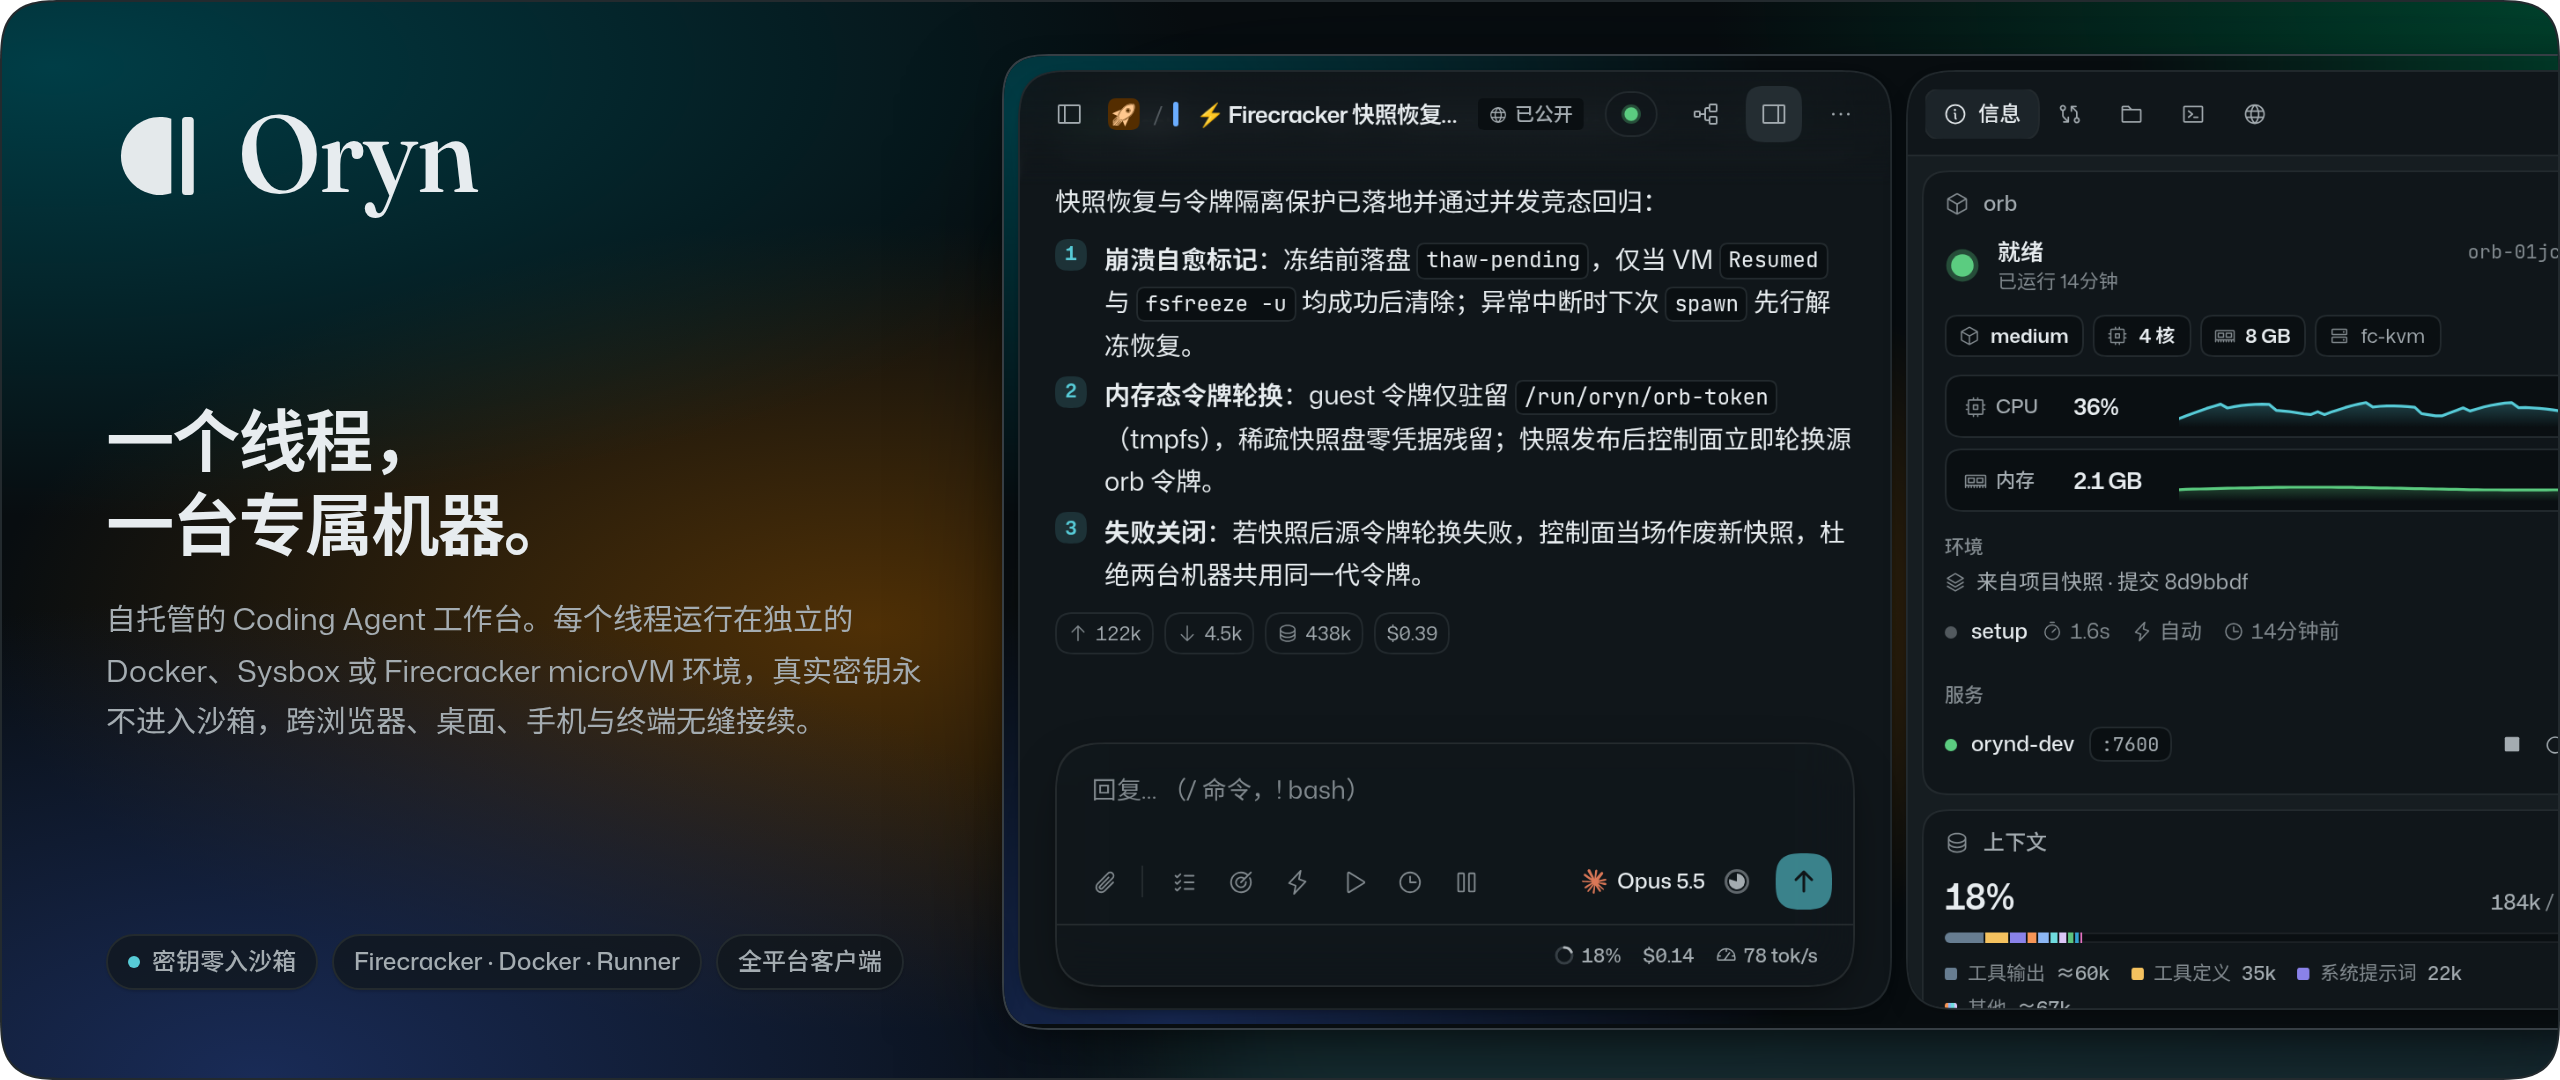
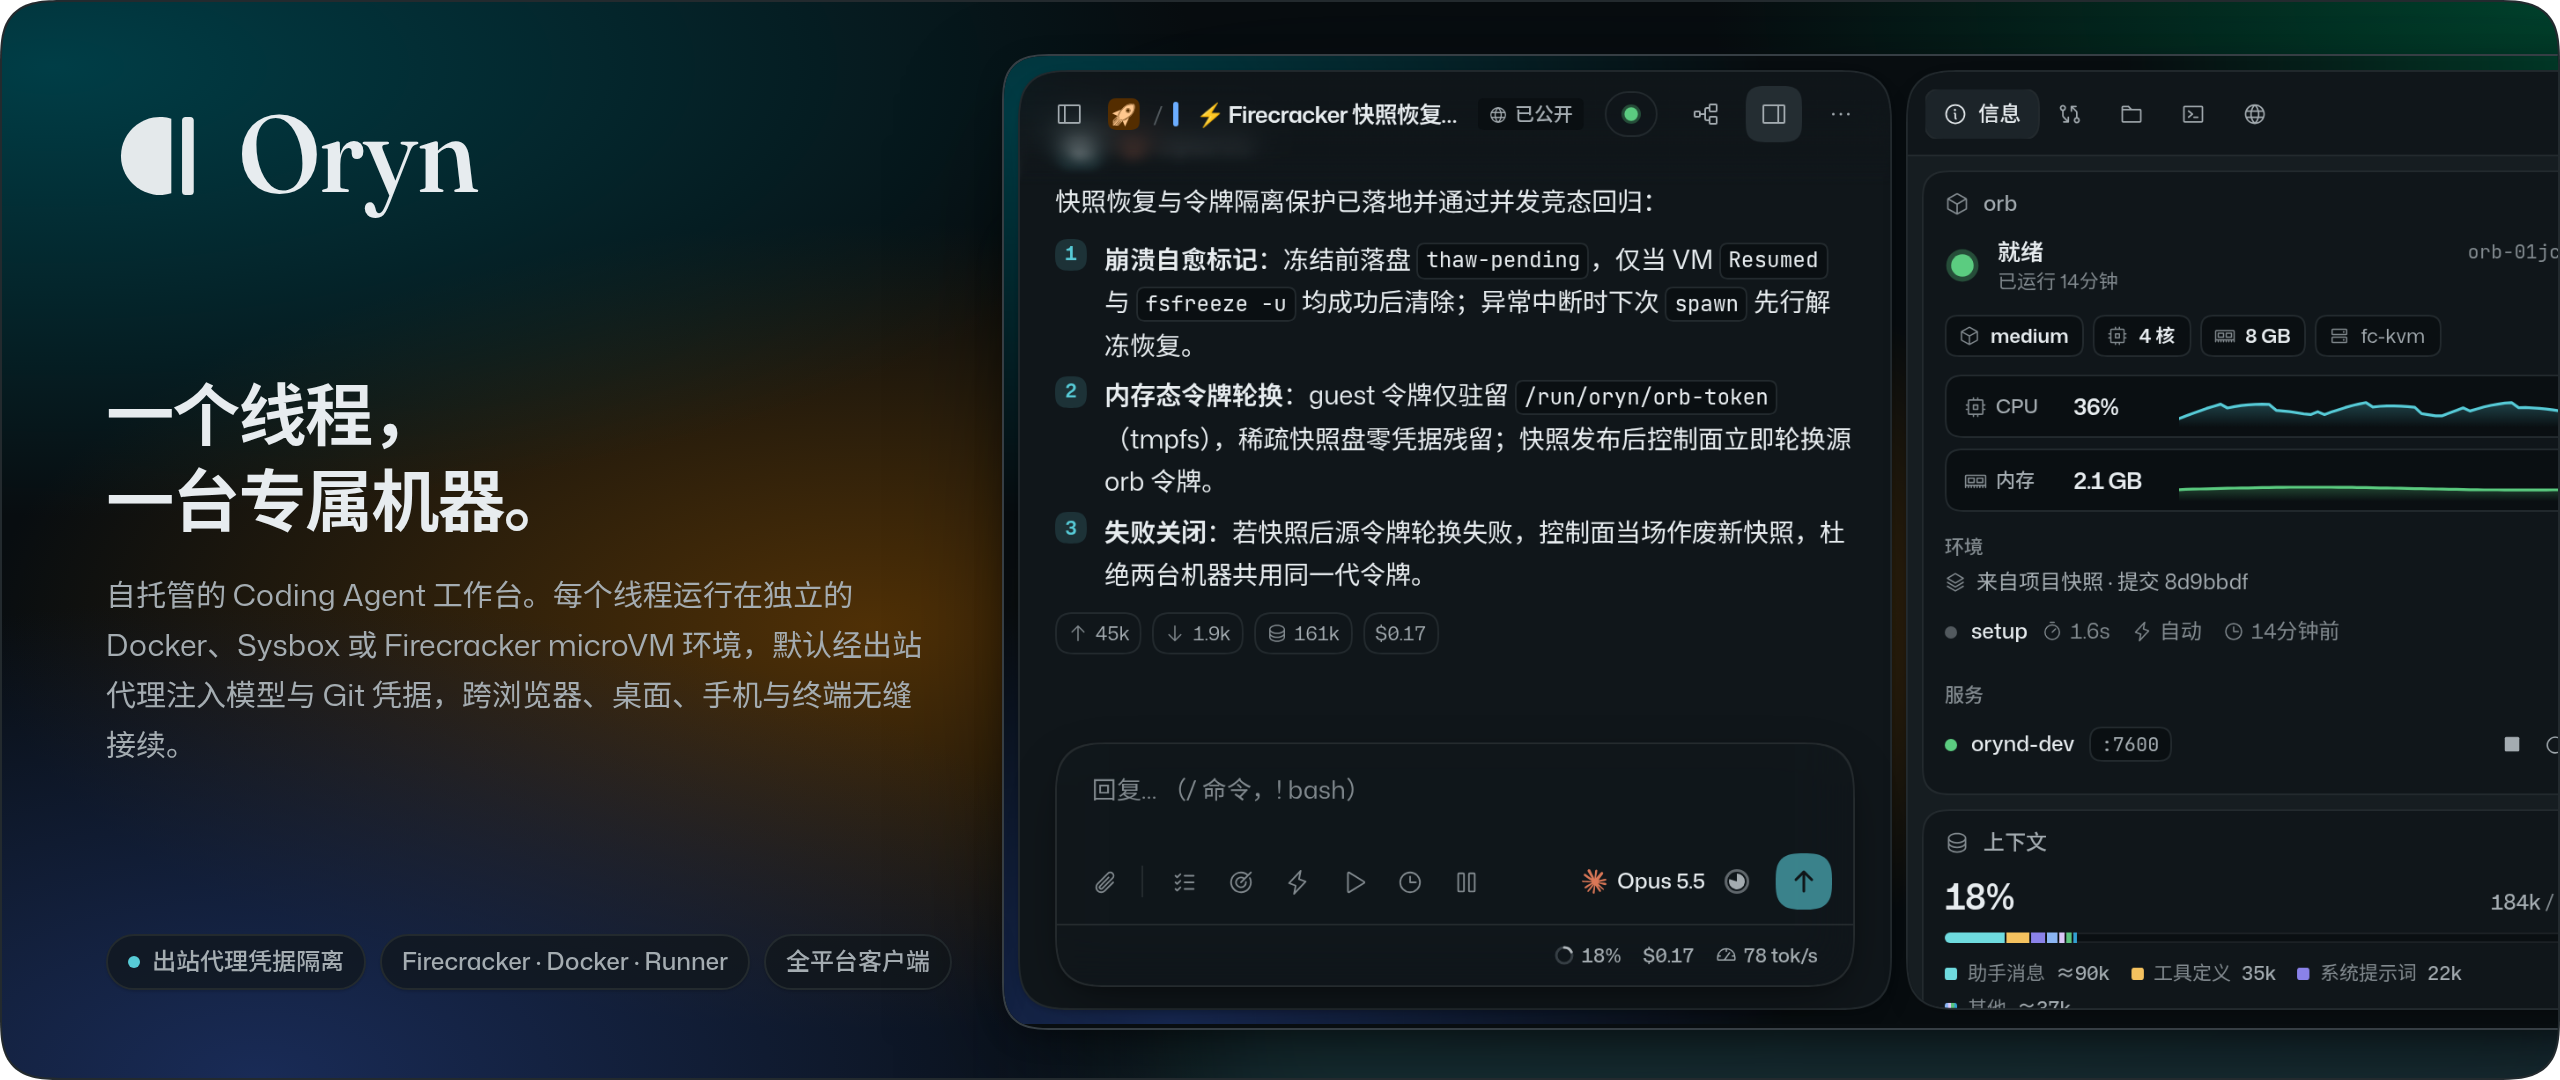
docs(readme): 📝 重写 README 并重制明暗自适应 Hero 与新版工作台截图

diff --git a/README.md b/README.md
@@ -7,7 +7,7 @@
 
 <br>
 
-**自托管的跨平台 Coding Agent 工作台：每个对话线程独占一台隔离环境，真实密钥永不进入沙箱，在浏览器、桌面、手机与终端里无缝接续同一份工作。**
+**自托管的跨平台 Coding Agent 工作台：每个对话线程独占一台隔离环境，模型与 Git 凭据默认经控制面出站代理注入，在浏览器、桌面、手机与终端里无缝接续同一份工作。**
 
 [快速开始](#快速开始) · [核心能力](#核心能力) · [系统架构与安全边界](#系统架构与安全边界) · [CLI 常用命令](#cli-常用命令) · [生产部署](docs/deploy.md) · [桌面端](docs/desktop.md) · [移动端](docs/mobile.md) · [协议规格](docs/protocol.md)
 
@@ -24,7 +24,7 @@
 
 Oryn 以 [Oryn Core](https://github.com/Lynricsy/oryn-core)（fork 自 [`can1357/oh-my-pi`](https://github.com/can1357/oh-my-pi)，MIT）为 Agent 内核，为每个线程分配独立的计算环境，并提供从对话到交付的完整操作面：
 
-- **四种执行后端混排**：同一控制面可同时接入 **Docker 容器**（默认剥离 `NET_RAW` 与 `NET_ADMIN`）、**Sysbox 嵌套容器**（非特权 UID 映射运行内层 `dockerd`，无需 `--privileged`）、**Firecracker microVM**（独立 Linux 内核、`/30` 点对点 tap 网络与 jailer 槽位隔离）以及 **本机 Runner**（个人工作站或笔记本以普通用户运行 `orbd run --runner` 直连指定目录，冲突时自动创建相邻 `git worktree`）。
+- **四种执行后端混排**：同一控制面可同时接入 **Docker 容器**（默认剥离 `NET_RAW` 与 `NET_ADMIN`）、**Sysbox 嵌套容器**（非特权 UID 映射运行内层 `dockerd`，无需 `--privileged`）、**Firecracker microVM**（独立 Linux 内核、`/30` 点对点 tap 网络与 jailer 槽位隔离）以及 **本机 Runner**（个人工作站或笔记本以普通用户运行 `orbd run --runner` 直连指定目录；目录已有活动线程时提示报错，可通过界面选项或 `--worktree <名>` 在仓库旁新建独立 `git worktree`）。
 - **项目快照与预热池**：项目首次完成 `.oryn/setup` 后自动生成干净磁盘快照（Docker 镜像提交或 Firecracker `reflink` 稀疏盘复制），后续新线程跳过构建直接运行 `.oryn/resume`；高频项目可配置 1–3 台常驻预热池，新建线程即刻认领。
 - **自动冻结与按需唤醒**：Agent 与用户空闲达到阈值后自动冻结（暂停容器或 vCPU），打开线程或访问受管服务时自动唤醒；超时冻结后转为停机并完整保留磁盘状态。
 - **全功能工程面板**：工作台右侧内置 **环境信息**（CPU / 内存采样曲线、10 段彩色上下文构成、可交互待办与子 Agent 状态）、**Git 改动**（实时 Diff、暂存与取消暂存）、**文件树与编辑器**、**Web 终端**（256K 字符快照续传与流控背压恢复）、**受管服务与 Portal**（经泛域名 `https://t-<短码>-p<端口>.<portal_domain>/` 安全暴露开发服务器，支持限时公开预览）以及 **远程桌面**（内置 TigerVNC + Openbox + Chromium，支持跨线程读写锁复用登录态 Profile）。
@@ -76,7 +76,7 @@ flowchart LR
 
 系统围绕三条核心安全不变量构建（完整威胁模型与加固清单见 [`docs/deploy.md`](docs/deploy.md)）：
 
-1. **真实凭据永不进入 Orb**：导入配置时，`models.yml` 中的明文 API Key 自动移入控制面主密钥加密库，下发至 orb 的配置文件仅含 `oryn-ph-…` 占位符。模型与 Git 请求经 `orbd` 本地端口 `127.0.0.1:7811` 回到 `orynd`，在控制面校验目标上游主机后注入真实凭据，并将响应头与响应体中的凭据回显逆向脱敏回占位符。
+1. **出站代理凭据隔离**：默认 `proxy` 模式下，导入的 `models.yml` 明文 API Key 与 `git/*` 令牌存入控制面主密钥加密库，下发至 orb 的配置仅含 `oryn-ph-…` 占位符；请求经 `orbd` 本地端口 `127.0.0.1:7811` 回到 `orynd` 按绑定上游主机注入真实值，并将响应中的凭据回显脱敏回占位符（仅显式设为 `env` 模式的自定义密钥或未绑定上游 `hosts` 的模型 Key 降级路径会以环境变量下发）。
 2. **Git 最小权限放行**：绑定了 `https://` 仓库地址的项目 orb 仅允许对该单一仓库执行读写（`git-upload-pack` / `git-receive-pack`），同主机其它仓库一律 `403`；未绑定项目的 orb 对已配置令牌的 Git 主机仅放行只读克隆，拒绝一切推送。
 3. **动态令牌轮换与单向信任隔离**：Orb 连接令牌 `oot_…` 由 `HMAC(key, orbID : 代数)` 派生，每次创建、唤醒及拍摄快照后立即轮换，快照磁盘内不留有效令牌（Firecracker guest 令牌仅驻留内存 `tmpfs`）；本机 Runner 采用严格单向边界：控制面永不向 Runner 下发模型配置、环境变量密钥或开启出站代理，且协调助手禁止读写或操控任何 Runner 线程。
 
@@ -103,11 +103,20 @@ make image
 
 `make image` 构建完成后会自动以非 root 用户在断网容器内执行冒烟脚本，终端输出 `orb 镜像离线冒烟：通过`。
 
-在开始下一步前，确认 `dev/orynd.yaml` 与 `dev/provider.yaml` 中的网桥地址与本机 `docker0` 一致（执行 `ip -4 addr show docker0` 查看，常见值为 `172.17.0.1` 或 `172.18.0.1`），随后启动控制面：
+生成与本机 `docker0` 网桥地址匹配的最小本地配置并启动控制面（仓库内的 `dev/orynd.yaml` 额外监听了 Firecracker 网段 `172.31.255.1`，未初始化该网卡时请使用下方纯 Docker 配置）：
 
 ```bash
-# 3. 启动控制面（首次启动会在日志中打印一次性的 Passkey 初始化链接）
-./bin/orynd --config dev/orynd.yaml
+# 3. 生成纯 Docker 本地开发配置并启动控制面（首次启动会在日志中打印一次性的 Passkey 初始化链接）
+mkdir -p .dev
+DOCKER_IP=$(ip -4 -o addr show docker0 | awk '{print $4}' | cut -d/ -f1)
+cat > .dev/quickstart-orynd.yaml <<EOF
+listen: ["127.0.0.1:7600"]
+public_url: "http://localhost:7600"
+portal_domain: "localhost"
+data_dir: "./.dev/quickstart-data"
+orb_tls: { listen: ["${DOCKER_IP}:7643"] }
+EOF
+./bin/orynd --config .dev/quickstart-orynd.yaml
 ```
 
 复制终端输出的 `http://localhost:7600/setup#token=ost_…` 在浏览器中打开，注册管理员 Passkey 并保存恢复码。随后在第二个终端配对命令行并启动本机 Provider：
@@ -118,10 +127,18 @@ make image
 ./bin/oryn config push ~/.omp/agent
 
 # 5. 创建名为 local 的 Provider 令牌并启动 Docker 执行器
-mkdir -p .dev
-./bin/oryn provider create local > .dev/provider.token
-chmod 0600 .dev/provider.token
-./bin/oryn provider run --config dev/provider.yaml
+DOCKER_IP=$(ip -4 -o addr show docker0 | awk '{print $4}' | cut -d/ -f1)
+./bin/oryn provider create local > .dev/quickstart-provider.token
+chmod 0600 .dev/quickstart-provider.token
+cat > .dev/quickstart-provider.yaml <<EOF
+url: "http://127.0.0.1:7600"
+token_file: ".dev/quickstart-provider.token"
+orb_url: "https://${DOCKER_IP}:7643"
+driver: docker
+docker:
+  image: "oryn-orb:dev"
+EOF
+./bin/oryn provider run --config .dev/quickstart-provider.yaml
 ```
 
 打开 `http://localhost:7600` 即可新建线程并在独立的 Docker orb 中开始工作。生产环境部署（1Panel / OpenResty 反代、通配符 Portal 证书、网络防火墙隔离、Sysbox 与 Firecracker microVM 配置）请参阅 **[`docs/deploy.md`](docs/deploy.md)**。
